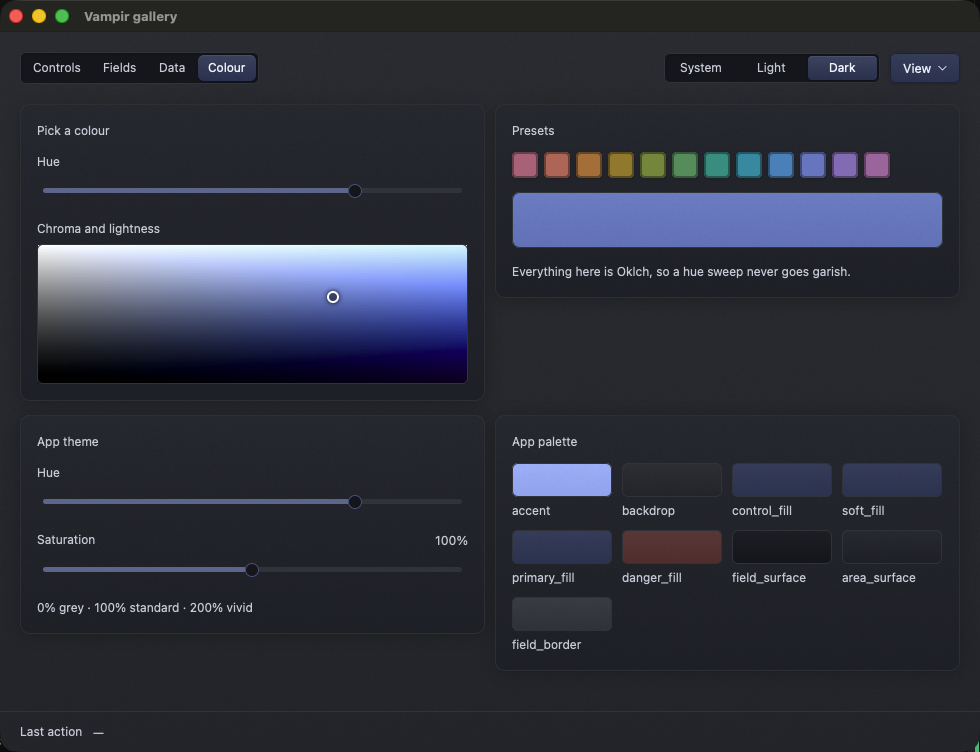
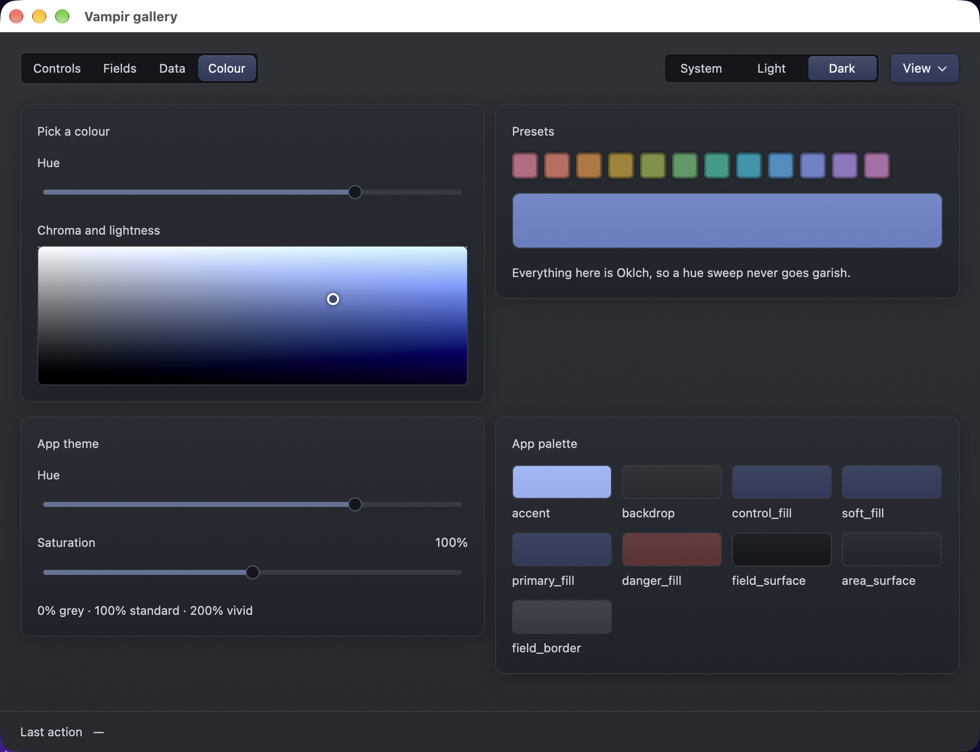
Keep virtual result content scrollable and verify gallery states

diff --git a/src/overlay.rs b/src/overlay.rs
@@ -1070,6 +1070,9 @@ fn result_viewport(
                 .child(
                     div()
                         .relative()
+                        // A flex child otherwise shrinks to the viewport,
+                        // leaving the scroll handle with no distance to move.
+                        .flex_none()
                         .w_full()
                         .h(px(navigation.content_height()))
                         .children(rows),

diff --git a/docs/widgets.md b/docs/widgets.md
@@ -82,6 +82,8 @@ These are in-window menus drawn by the toolkit. The macOS menu bar is a differen
 
 `ranked_search_list` and `ranked_command_palette` are the same for results the host has already filtered and ranked: `SearchResult`s assembled from tabs, files, history, remote suggestions or any other source, drawn in the order given. A result can carry a detail line, a shortcut, a section — drawn as a heading over each run of results from it — and a leading visual drawn by the host from `SearchResult::leading`; the query is emphasised where it matches: in the label a contiguous run anywhere, or failing one an abbreviation's letters, and in the detail only a contiguous run that starts a word. The list scrolls under the query field once it is taller than a few rows and keeps the highlighted row in view; `ranked_search_list` takes the colours of the surface under its top and bottom edges, which its fades land on. The host may replace the results whenever another source finishes. A new query puts the highlight on the first result. Until the person moves it, it stays on the first row as results arrive, so a better match that lands late becomes the one Enter picks; once they have moved it, it stays on the result they moved it to, found by id, so Enter never picks something they did not choose. That is why result ids have to be unique within a list and stable across updates. `rank_results` is for a host with no ranking of its own: it scores each result's label with `fuzzy_score`, lets a match on the detail or section through after those, keeps each section's results together under one heading, and orders the sections by their best result; ties keep the order the sources were assembled in. The gallery's Ranked results card ranks its sources that way — type `design`, then add History to watch a late source arrive — and the Results palette shows the same sources in the overlay.
 
+![The Results palette after Page Down reveals a later highlighted row](rich-search-scroll.png)
+
 ## Data — `vampir::data`
 
 ![A tab bar, a tree, a table and a split](data.png)
